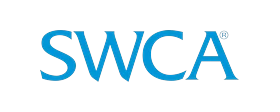
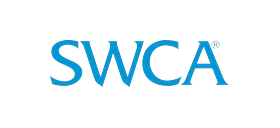
Client strip: staggered rows, resize SWCA/TMG/Perkins, darken ESA/UPP
The strict grid read as a table, so rows now alternate 5 and 4 across (12 logos
land 5/4/3) inside explicit row groups. Centring each row is what produces the
offset - measured at exactly 90px against a 180px cell pitch, so every row sits
half a cell off the one above.

At <=768px those groups would force orphan lines (a single logo under a pair),
so the rows collapse to display:contents there and the logos flow as one group,
landing an even 6x2.

SWCA and TMG down 10%, Perkins&Will up 10% - which needed the canvas to grow to
280x128 (a 140x64 cell), since Perkins&Will was already pinned at the old box's
height limit and could not have grown inside it. Every other logo's multiplier
was rebased to hold its absolute size across that change.

ESA and Urban Planning Partners get their ink darkened 10% in the build, so the
adjustment survives the CSS greyscale rather than fighting it.

Changed region(s): [[0.1429, 0.2679, 0.6571, 0.7232], [0.5143, 0.2679, 0.8571, 0.7232]]

diff --git a/website-mockups/option-b2-type-business/index.html b/website-mockups/option-b2-type-business/index.html
@@ -379,18 +379,24 @@
           <div class="accent-line"></div>
         </div>
         <div class="clients-grid">
-          <img class="client-logo" src="../shared/images/clients/esa.webp" alt="ESA" width="140" height="56" loading="lazy" decoding="async">
-          <img class="client-logo" src="../shared/images/clients/icf.webp" alt="ICF" width="140" height="56" loading="lazy" decoding="async">
-          <img class="client-logo" src="../shared/images/clients/swca.webp" alt="SWCA" width="140" height="56" loading="lazy" decoding="async">
-          <img class="client-logo" src="../shared/images/clients/stantec.webp" alt="Stantec" width="140" height="56" loading="lazy" decoding="async">
-          <img class="client-logo" src="../shared/images/clients/tishman-speyer.webp" alt="Tishman Speyer" width="140" height="56" loading="lazy" decoding="async">
-          <img class="client-logo" src="../shared/images/clients/related-california.webp" alt="Related California" width="140" height="56" loading="lazy" decoding="async">
-          <img class="client-logo" src="../shared/images/clients/tmg-partners.webp" alt="TMG Partners" width="140" height="56" loading="lazy" decoding="async">
-          <img class="client-logo" src="../shared/images/clients/perkins-will.webp" alt="Perkins&amp;Will" width="140" height="56" loading="lazy" decoding="async">
-          <img class="client-logo" src="../shared/images/clients/urban-planning-partners.webp" alt="Urban Planning Partners" width="140" height="56" loading="lazy" decoding="async">
-          <img class="client-logo" src="../shared/images/clients/sf-planning.webp" alt="San Francisco Planning Department" width="140" height="56" loading="lazy" decoding="async">
-          <img class="client-logo" src="../shared/images/clients/sf-rec-parks.webp" alt="San Francisco Recreation &amp; Parks" width="140" height="56" loading="lazy" decoding="async">
-          <img class="client-logo" src="../shared/images/clients/port-of-sf.webp" alt="Port of San Francisco" width="140" height="56" loading="lazy" decoding="async">
+          <div class="clients-row">
+            <img class="client-logo" src="../shared/images/clients/esa.webp" alt="ESA" width="140" height="64" loading="lazy" decoding="async">
+            <img class="client-logo" src="../shared/images/clients/icf.webp" alt="ICF" width="140" height="64" loading="lazy" decoding="async">
+            <img class="client-logo" src="../shared/images/clients/swca.webp" alt="SWCA" width="140" height="64" loading="lazy" decoding="async">
+            <img class="client-logo" src="../shared/images/clients/stantec.webp" alt="Stantec" width="140" height="64" loading="lazy" decoding="async">
+            <img class="client-logo" src="../shared/images/clients/tishman-speyer.webp" alt="Tishman Speyer" width="140" height="64" loading="lazy" decoding="async">
+          </div>
+          <div class="clients-row">
+            <img class="client-logo" src="../shared/images/clients/related-california.webp" alt="Related California" width="140" height="64" loading="lazy" decoding="async">
+            <img class="client-logo" src="../shared/images/clients/tmg-partners.webp" alt="TMG Partners" width="140" height="64" loading="lazy" decoding="async">
+            <img class="client-logo" src="../shared/images/clients/perkins-will.webp" alt="Perkins&amp;Will" width="140" height="64" loading="lazy" decoding="async">
+            <img class="client-logo" src="../shared/images/clients/urban-planning-partners.webp" alt="Urban Planning Partners" width="140" height="64" loading="lazy" decoding="async">
+          </div>
+          <div class="clients-row">
+            <img class="client-logo" src="../shared/images/clients/sf-planning.webp" alt="San Francisco Planning Department" width="140" height="64" loading="lazy" decoding="async">
+            <img class="client-logo" src="../shared/images/clients/sf-rec-parks.webp" alt="San Francisco Recreation &amp; Parks" width="140" height="64" loading="lazy" decoding="async">
+            <img class="client-logo" src="../shared/images/clients/port-of-sf.webp" alt="Port of San Francisco" width="140" height="64" loading="lazy" decoding="async">
+          </div>
         </div>
       </div>
     </section>

diff --git a/website-mockups/option-b2-type-business/css/styles.css b/website-mockups/option-b2-type-business/css/styles.css
@@ -600,12 +600,21 @@ section { padding: 72px 0; }
 /* ---- CLIENTS ---- */
 .clients-section { border-top: 1px solid var(--gray-100); }
 
+/* Staggered rather than a strict grid: rows alternate 5 and 4 across, and
+   centring each row is what offsets it by half a cell against the one above. */
 .clients-grid {
+  display: flex;
+  flex-direction: column;
+  align-items: center;
+  gap: 18px;
+}
+
+.clients-row {
   display: flex;
   flex-wrap: wrap;
   justify-content: center;
   align-items: center;
-  gap: 22px 40px;
+  gap: 18px 40px;
 }
 
 /* A shared cell rather than a shared height: these marks run from a 5:1
@@ -613,7 +622,7 @@ section { padding: 72px 0; }
    dominate. object-fit: contain inside one box evens out their optical weight. */
 .client-logo {
   width: 140px;
-  height: 56px;
+  height: 64px;
   object-fit: contain;
   /* one grey voice across a dozen brand palettes, at rest and on hover alike —
      delete these two lines to run them in their own colours */
@@ -627,7 +636,7 @@ section { padding: 72px 0; }
   align-items: center;
   justify-content: center;
   width: 140px;
-  height: 56px;
+  height: 64px;
   font-family: var(--font-heading);
   font-size: 13px;
   font-weight: 600;
@@ -1074,6 +1083,12 @@ section { padding: 72px 0; }
 
   .services-grid { grid-template-columns: 1fr; }
   .projects-grid { grid-template-columns: 1fr; }
+
+  /* The 5/4 stagger needs the full width to read; at this size the row groups
+     just force orphan lines (one logo alone under a pair), so let them flow as
+     one wrapping group instead. */
+  .clients-grid { flex-direction: row; flex-wrap: wrap; justify-content: center; gap: 20px 30px; }
+  .clients-row { display: contents; }
   .stats-grid { grid-template-columns: 1fr 1fr; }
   .footer-grid { grid-template-columns: 1fr; }
 

diff --git a/scripts/build-client-logos.py b/scripts/build-client-logos.py
@@ -19,7 +19,7 @@ from PIL import Image
 
 SRC = os.path.join('images', 'logos', 'client_logos')
 OUT = os.path.join('website-mockups', 'shared', 'images', 'clients')
-BOX = (280, 112)         # 2x the 140x56 cell the page draws
+BOX = (280, 128)         # 2x the 140x64 cell the page draws
 PAD = 2                  # keeps antialiased edges off the boundary
 
 # source stem -> output stem, so the markup does not inherit vendor filenames
@@ -44,18 +44,25 @@ NAMES = {
 # the contact sheet, which is the only way to judge it (a circular badge's ink
 # height says nothing about the size of the name inside it).
 SCALE = {
-    'esa': 0.78,
-    'icf': 0.78,
+    'esa': 0.677,
+    'icf': 0.677,
     'tishman-speyer': 1.00,
-    'sf-rec-parks': 0.78,
+    'sf-rec-parks': 0.677,
     'related-california': 1.00,
-    'swca': 0.72,
-    'sf-planning': 0.72,
-    'stantec': 0.85,
-    'tmg-partners': 0.80,
-    'perkins-will': 1.00,
-    'urban-planning-partners': 1.00,
-    'port-of-sf': 1.00,
+    'swca': 0.649,                    # -10% on review 2
+    'sf-planning': 0.721,
+    'stantec': 0.851,
+    'tmg-partners': 0.721,            # -10% on review 2
+    'perkins-will': 0.960,            # +10% on review 2
+    'urban-planning-partners': 0.871,
+    'port-of-sf': 0.871,
+}
+
+# Ink luminance multiplier for marks that read too light next to the rest once
+# the strip is greyscaled. Applied to RGB only, so the alpha edge stays clean.
+DARKEN = {
+    'esa': 0.90,
+    'urban-planning-partners': 0.90,
 }
 
 
@@ -108,6 +115,10 @@ def main():
             continue
         im, _ = darken_knockout(load(path), os.path.basename(path))
         im = trim(im)
+        d = DARKEN.get(NAMES[stem])
+        if d:
+            r, g, b, a = im.split()
+            im = Image.merge('RGBA', [ch.point(lambda v, k=d: int(v * k)) for ch in (r, g, b)] + [a])
         w, h = im.size
         scale = min((BOX[0] - PAD * 2) / w, (BOX[1] - PAD * 2) / h) * SCALE.get(NAMES[stem], 1.0)
         upscaled = scale > 1
@@ -118,9 +129,10 @@ def main():
         canvas.save(dest, 'WEBP', quality=90, method=6)
         total += os.path.getsize(dest)
         note = '  !! upscaled %.1fx from %dx%d — ask for a larger source' % (scale, w, h) if upscaled else ''
-        print('%-26s -> %-28s %3dx%-3d  scale %.2f%s'
+        print('%-26s -> %-28s %3dx%-3d  scale %.3f%s%s'
               % (os.path.basename(path), NAMES[stem] + '.webp', im.width, im.height,
-                 SCALE.get(NAMES[stem], 1.0), note))
+                 SCALE.get(NAMES[stem], 1.0),
+                 '  darkened %.2f' % DARKEN[NAMES[stem]] if NAMES[stem] in DARKEN else '', note))
     print('\n%d logos, %.0f KB' % (len(NAMES), total / 1024))
 
 
